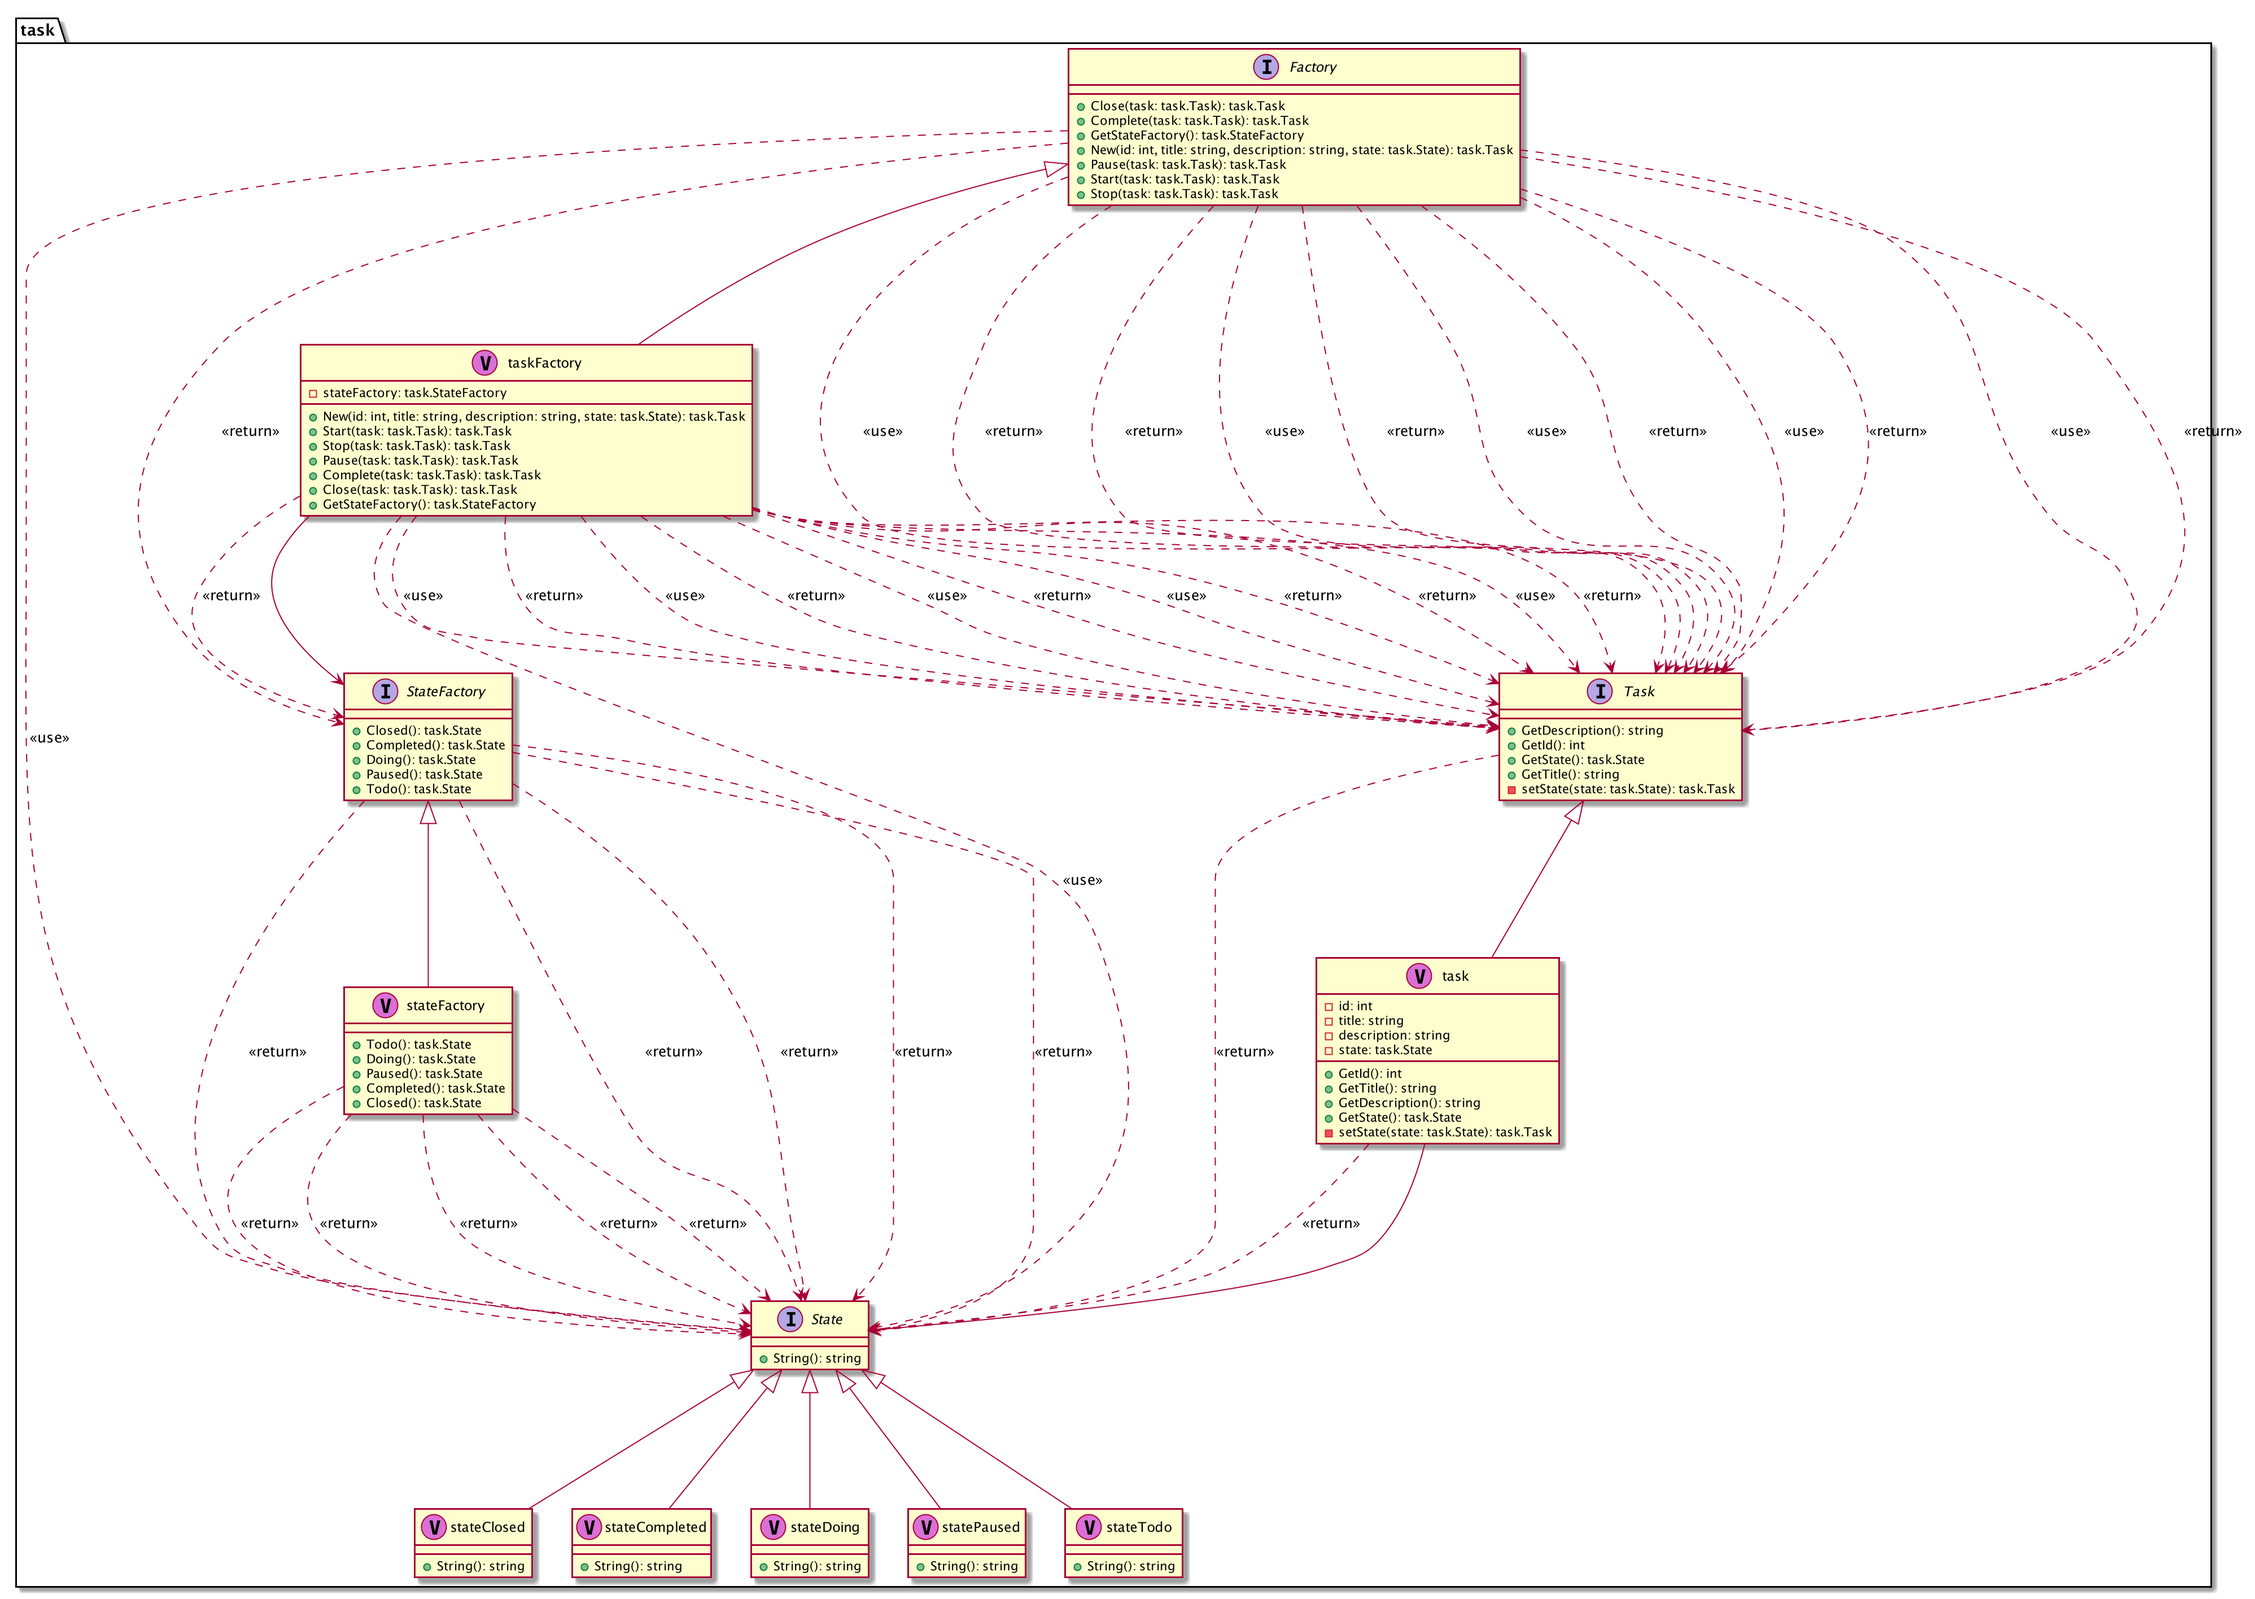
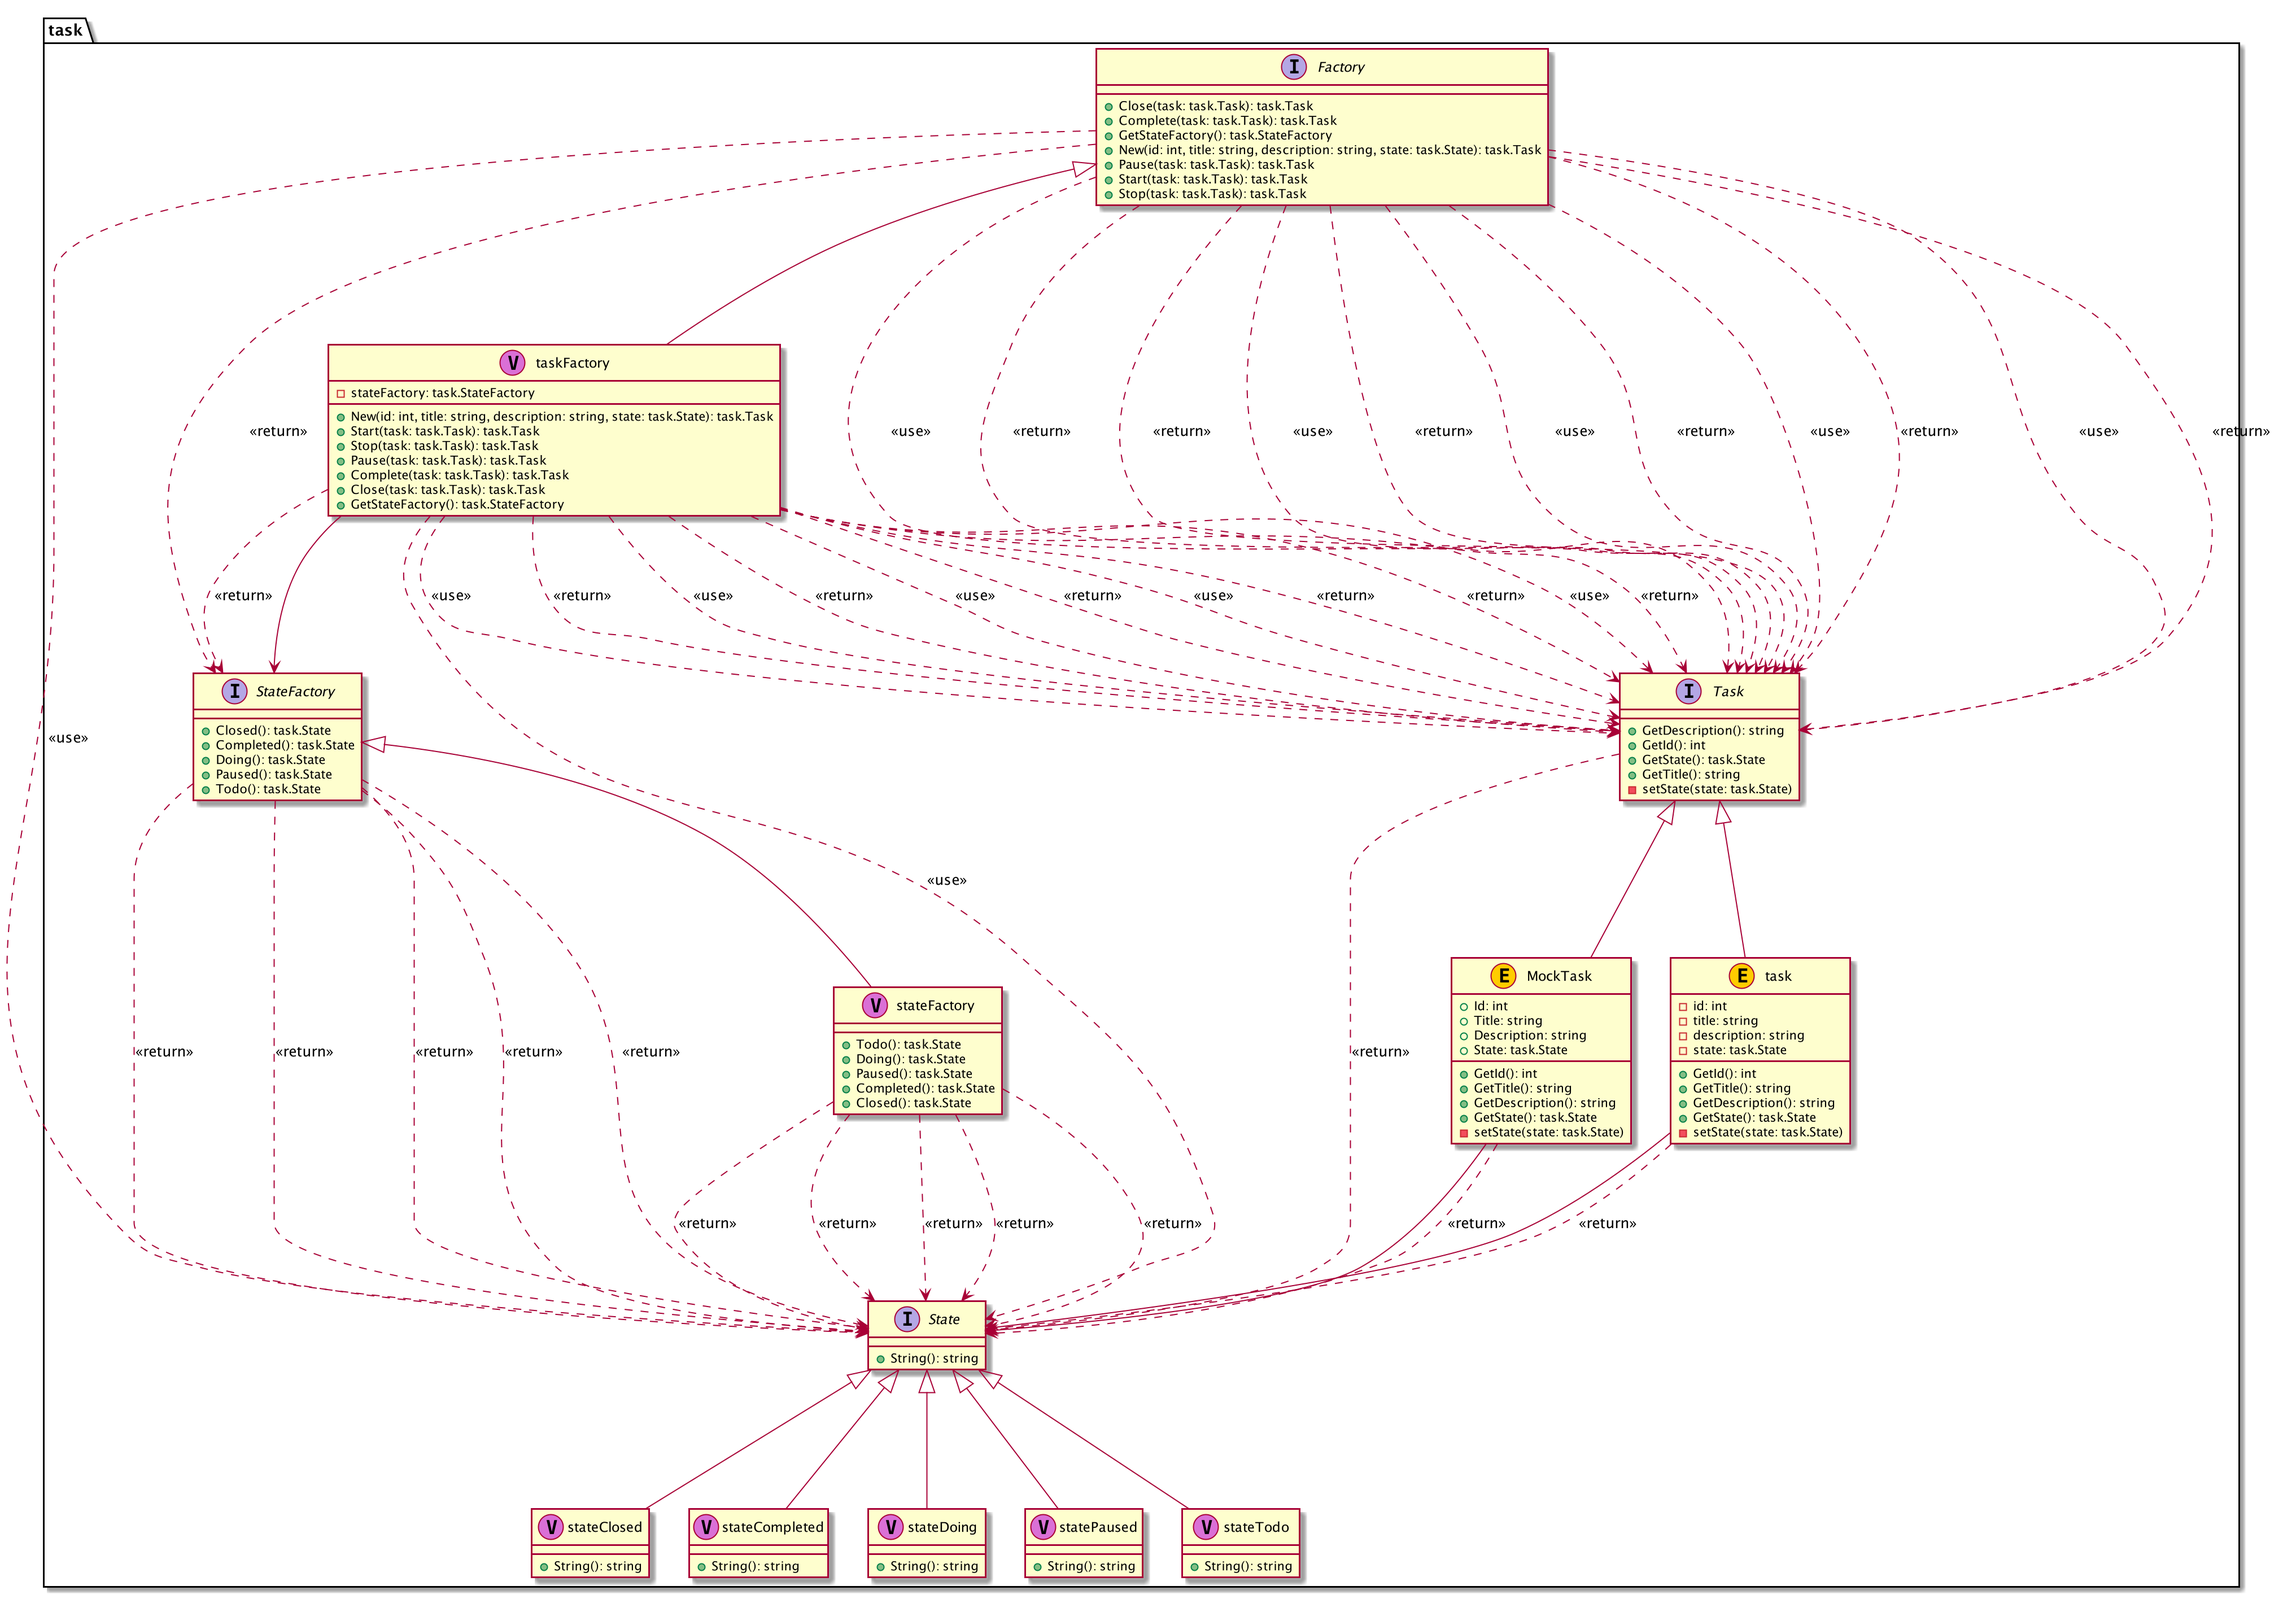
change domain

diff --git a/domain/task/task_factory.go b/domain/task/task_factory.go
@@ -15,12 +15,12 @@ type taskFactory struct {
 }
 
 func NewTaskFactory(stateFactory StateFactory) Factory {
-	return taskFactory{
+	return &taskFactory{
 		stateFactory,
 	}
 }
 
-func (tf taskFactory) New(id int, title, description string, state State) Task {
+func (tf *taskFactory) New(id int, title, description string, state State) Task {
 	var task Task = &task{
 		id:          id,
 		title:       title,
@@ -30,31 +30,31 @@ func (tf taskFactory) New(id int, title, description string, state State) Task {
 	return task
 }
 
-func (tf taskFactory) Start(task Task) Task {
-	t := task.setState(tf.stateFactory.Doing())
-	return t
+func (tf *taskFactory) Start(task Task) Task {
+	task.setState(tf.stateFactory.Doing())
+	return task
 }
 
-func (tf taskFactory) Stop(task Task) Task {
-	t := task.setState(tf.stateFactory.Todo())
-	return t
+func (tf *taskFactory) Stop(task Task) Task {
+	task.setState(tf.stateFactory.Todo())
+	return task
 }
 
-func (tf taskFactory) Pause(task Task) Task {
-	t := task.setState(tf.stateFactory.Paused())
-	return t
+func (tf *taskFactory) Pause(task Task) Task {
+	task.setState(tf.stateFactory.Paused())
+	return task
 }
 
-func (tf taskFactory) Complete(task Task) Task {
-	t := task.setState(tf.stateFactory.Completed())
-	return t
+func (tf *taskFactory) Complete(task Task) Task {
+	task.setState(tf.stateFactory.Completed())
+	return task
 }
 
-func (tf taskFactory) Close(task Task) Task {
-	t := task.setState(tf.stateFactory.Closed())
-	return t
+func (tf *taskFactory) Close(task Task) Task {
+	task.setState(tf.stateFactory.Closed())
+	return task
 }
 
-func (tf taskFactory) GetStateFactory() StateFactory {
-	return stateFactory{}
+func (tf *taskFactory) GetStateFactory() StateFactory {
+	return tf.stateFactory
 }

diff --git a/domain/task/task.go b/domain/task/task.go
@@ -5,7 +5,7 @@ type Task interface {
 	GetTitle() string
 	GetDescription() string
 	GetState() State
-	setState(state State) Task
+	setState(state State)
 }
 
 type task struct {
@@ -15,23 +15,22 @@ type task struct {
 	state       State
 }
 
-func (t task) GetId() int {
+func (t *task) GetId() int {
 	return t.id
 }
 
-func (t task) GetTitle() string {
+func (t *task) GetTitle() string {
 	return t.title
 }
 
-func (t task) GetDescription() string {
+func (t *task) GetDescription() string {
 	return t.description
 }
 
-func (t task) GetState() State {
+func (t *task) GetState() State {
 	return t.state
 }
 
-func (t task) setState(state State) Task {
+func (t *task) setState(state State) {
 	t.state = state
-	return t
 }

diff --git a/domain/task/state_factory.go b/domain/task/state_factory.go
@@ -11,25 +11,25 @@ type StateFactory interface {
 type stateFactory struct{}
 
 func NewStateFactory() StateFactory {
-	return stateFactory{}
+	return &stateFactory{}
 }
 
-func (sf stateFactory) Todo() State {
+func (sf *stateFactory) Todo() State {
 	return stateTodo{}
 }
 
-func (sf stateFactory) Doing() State {
+func (sf *stateFactory) Doing() State {
 	return stateDoing{}
 }
 
-func (sf stateFactory) Paused() State {
+func (sf *stateFactory) Paused() State {
 	return statePaused{}
 }
 
-func (sf stateFactory) Completed() State {
+func (sf *stateFactory) Completed() State {
 	return stateCompleted{}
 }
 
-func (sf stateFactory) Closed() State {
+func (sf *stateFactory) Closed() State {
 	return stateClosed{}
 }

diff --git a/domain/task/task_mock.go b/domain/task/task_mock.go
@@ -1,0 +1,28 @@
+package task
+
+type MockTask struct {
+	Id          int
+	Title       string
+	Description string
+	State       State
+}
+
+func (t *MockTask) GetId() int {
+	return t.Id
+}
+
+func (t *MockTask) GetTitle() string {
+	return t.Title
+}
+
+func (t *MockTask) GetDescription() string {
+	return t.Description
+}
+
+func (t *MockTask) GetState() State {
+	return t.State
+}
+
+func (t *MockTask) setState(state State) {
+	t.State = state
+}

diff --git a/task/usecase/usecase.go b/task/usecase/usecase.go
@@ -1,0 +1,1 @@
+package usecase

diff --git a/task/usecase/usecase_test.go b/task/usecase/usecase_test.go
@@ -1,0 +1,1 @@
+package usecase

diff --git a/task/usecase.go b/task/usecase.go
@@ -1,0 +1,1 @@
+package task
